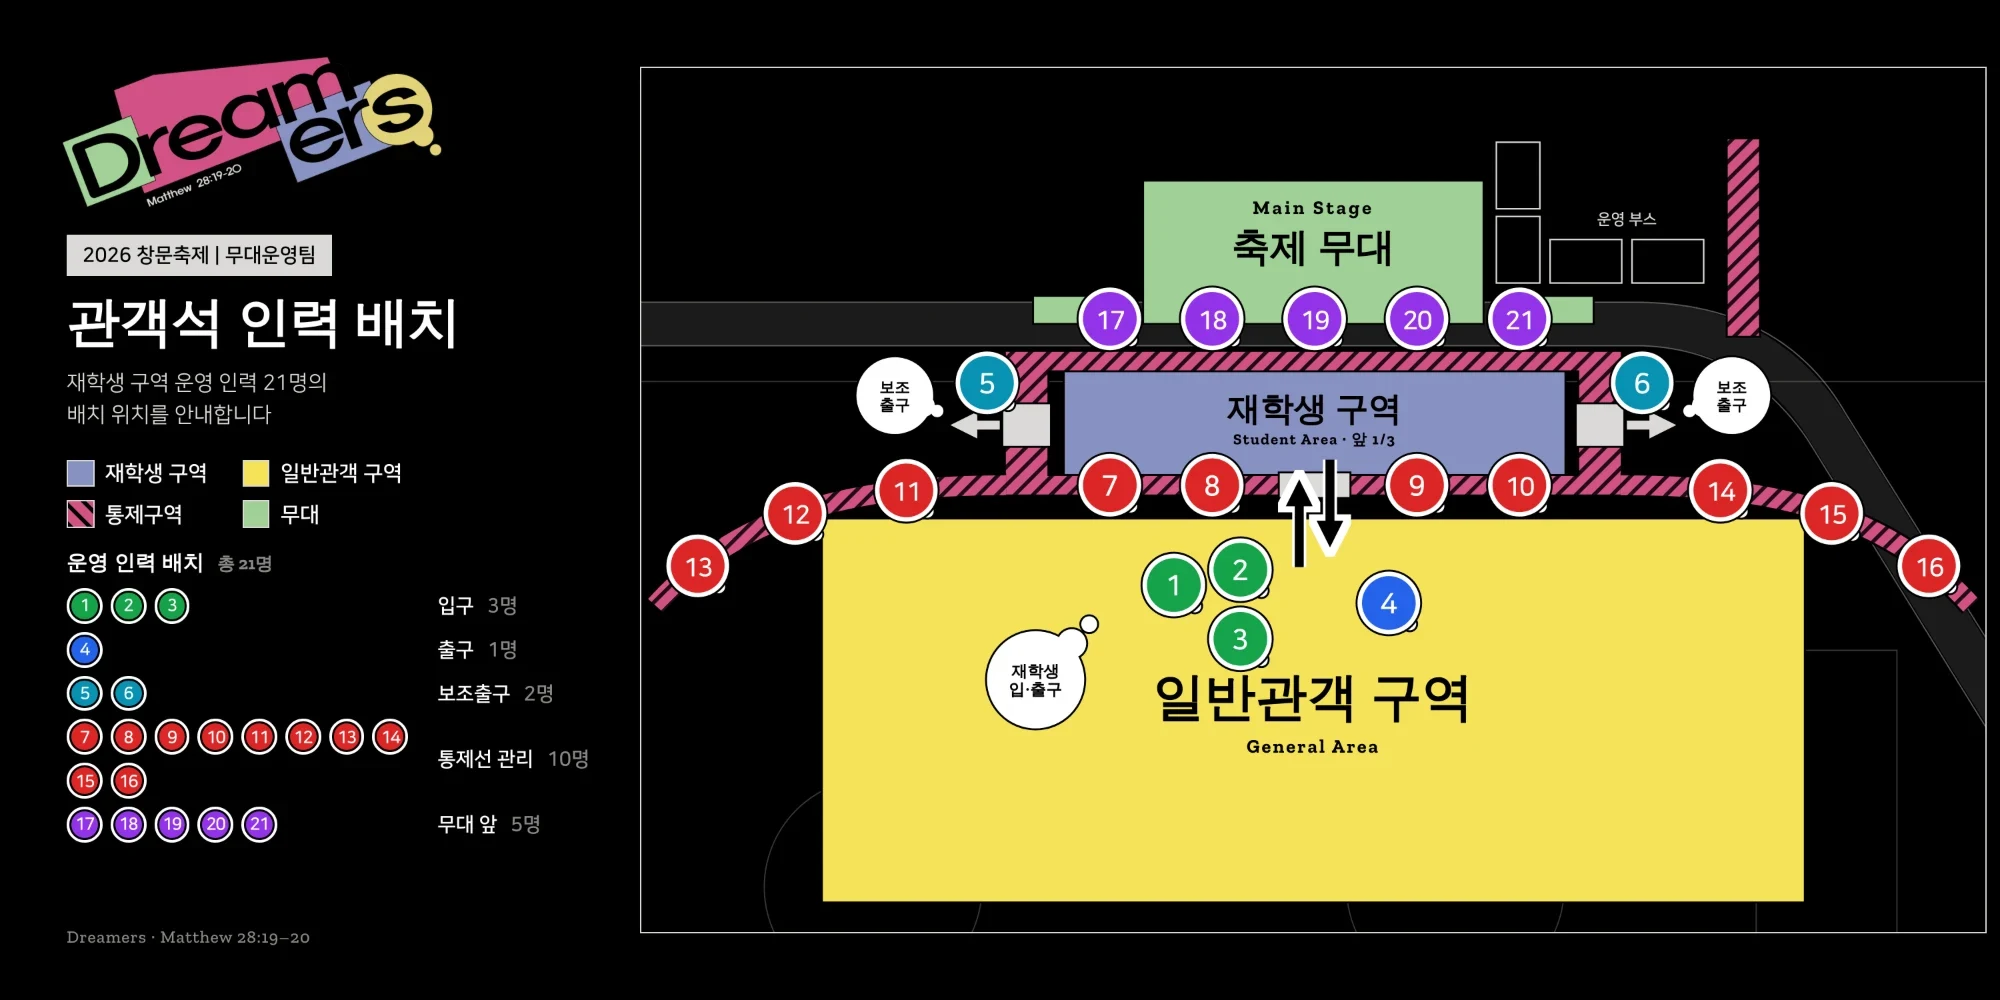
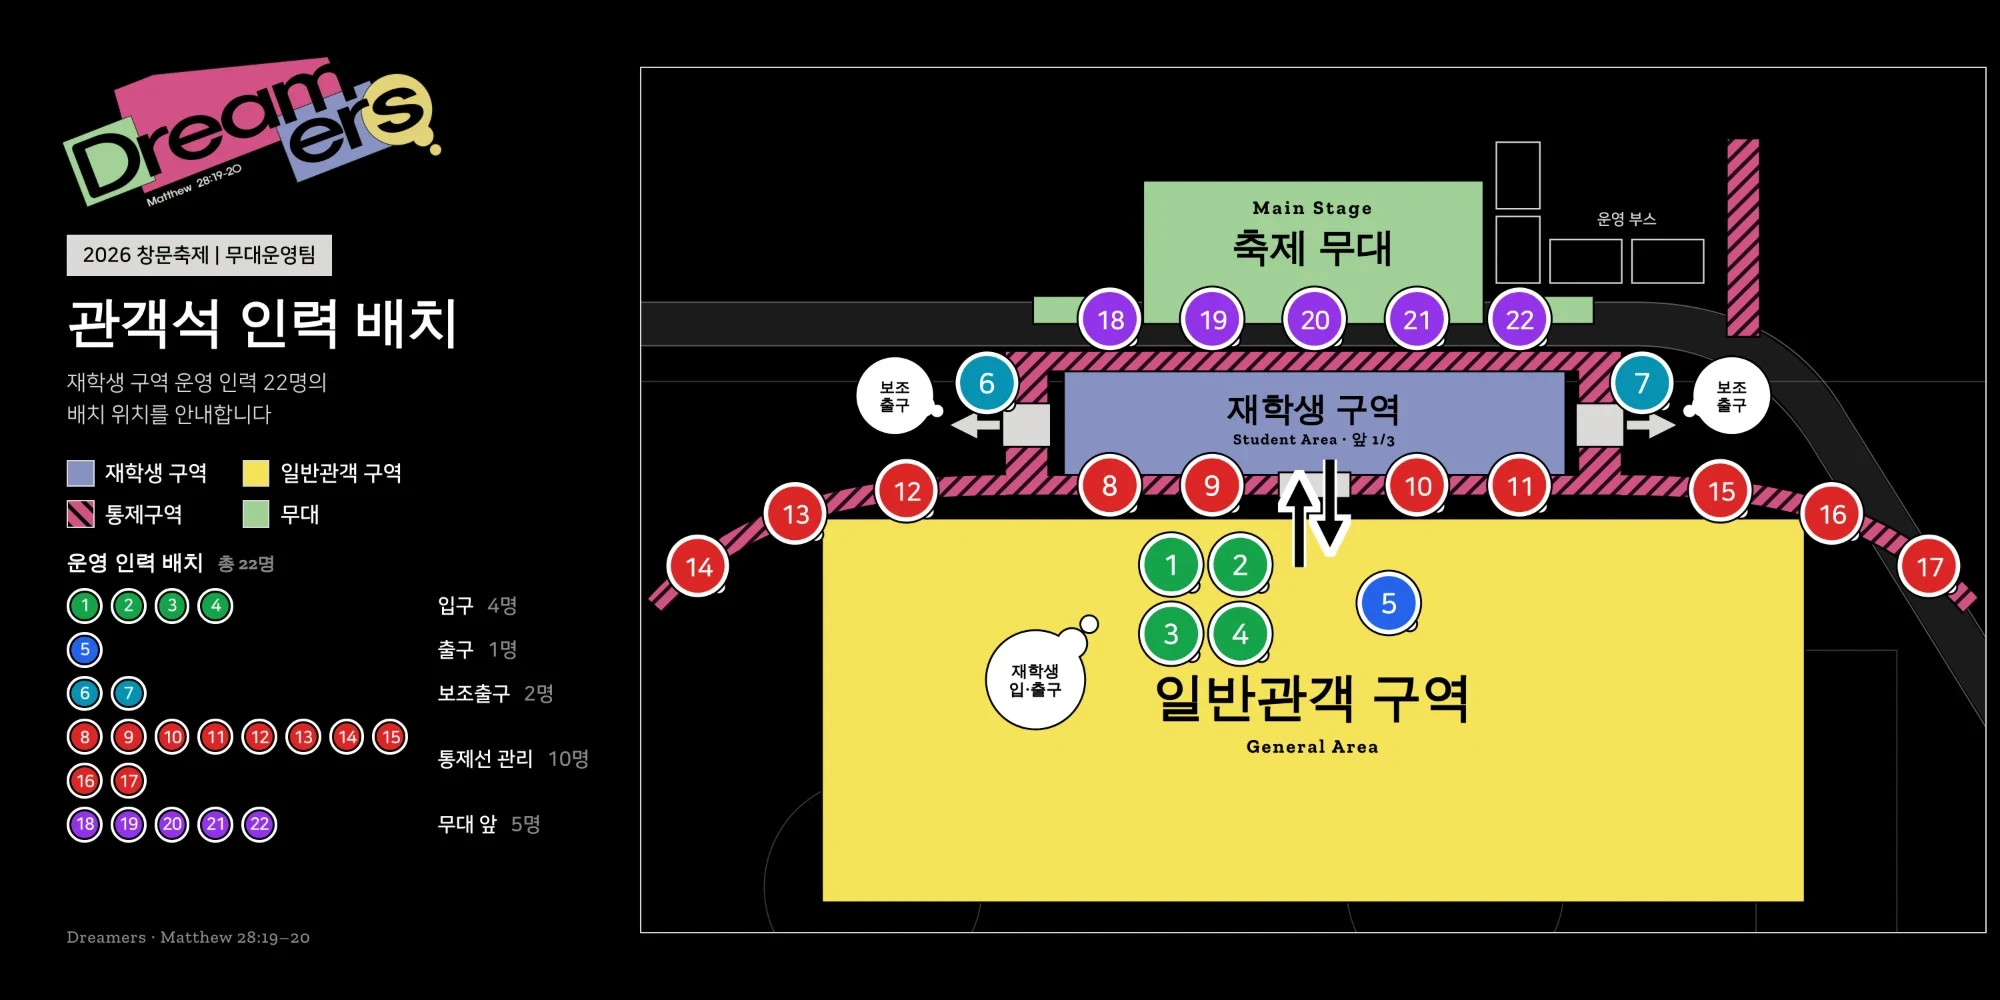
Switch to 22-person placement map and add 정유성 at spot 14
Claude-Session: https://claude.ai/code/session_01VLAU878uW3johEJhrDqsdQ

diff --git a/manual/index.html b/manual/index.html
@@ -134,10 +134,11 @@
   const sortEntries = arr => arr.slice().sort((a,b) => dayNum(a.day)-dayNum(b.day) || rotNum(a.rotation)-rotNum(b.rotation));
 
   // 관객석 인력 배치도 위의 1~21번 위치 (지도 이미지 기준 %)
-  const SPOTS = {1:[39.64,59.79],2:[44.54,58.06],3:[44.54,65.9],4:[55.61,61.87],5:[25.76,36.52],6:[74.31,36.52],
-    7:[34.82,48.39],8:[42.46,48.39],9:[57.61,48.39],10:[65.33,48.39],11:[19.75,48.96],12:[11.51,51.61],13:[4.31,57.6],
-    14:[80.25,48.96],15:[88.49,51.61],16:[95.69,57.6],17:[34.89,29.26],18:[42.54,29.26],19:[50.11,29.26],20:[57.68,29.26],21:[65.26,29.26]};
-  const spotRole = n => n<=3 ? ['입구','#1f9d55'] : n===4 ? ['출구','#2563eb'] : n<=6 ? ['보조출구','#0e8fa8'] : n<=16 ? ['통제선 관리','#e02424'] : ['무대 앞','#8b2be2'];
+  // 관객석 인력 배치도(22명) 위의 1~22번 위치 (지도 이미지 기준 %)
+  const SPOTS = {1:[39.42,57.49],2:[44.54,57.49],3:[39.42,65.32],4:[44.54,65.32],5:[55.61,61.87],6:[25.76,36.52],7:[74.31,36.52],
+    8:[34.82,48.39],9:[42.46,48.39],10:[57.76,48.39],11:[65.33,48.39],12:[19.75,48.96],13:[11.51,51.61],14:[4.31,57.6],
+    15:[80.25,48.96],16:[88.49,51.61],17:[95.69,57.6],18:[34.89,29.26],19:[42.54,29.26],20:[50.11,29.26],21:[57.68,29.26],22:[65.26,29.26]};
+  const spotRole = n => n<=4 ? ['입구','#1f9d55'] : n===5 ? ['출구','#2563eb'] : n<=7 ? ['보조출구','#0e8fa8'] : n<=17 ? ['통제선 관리','#e02424'] : ['무대 앞','#8b2be2'];
   const posOf = (e, name) => { const n = parseInt((e.positions||{})[name], 10); return SPOTS[n] ? n : null; };
 
   function mapHtml(marks){ // marks: [{n, label}]
@@ -326,9 +327,9 @@
           <div class="f"><label>준비물 (쉼표로 구분)</label><input type="text" data-k="items" value="${esc(e.items)}"></div>
           <div class="f"><label>하는 일 / 순서 (한 줄에 하나, 번호는 자동)</label><textarea class="tall" data-k="steps">${esc(e.steps)}</textarea></div>
           <div class="f"><label>주의 (한 줄에 하나, 번호는 자동)</label><textarea data-k="cautions">${esc(e.cautions)}</textarea></div>
-          <div class="f"><label>담당자 · 패트롤 위치 번호 (배치도 1~21번, 비우면 지도 없음)</label><div class="checks">
+          <div class="f"><label>담당자 · 패트롤 위치 번호 (배치도 1~22번)</label><div class="checks">
             ${d.people.map(n => `<label><input type="checkbox" data-who="${esc(n)}" ${(e.assignees||[]).includes(n)?'checked':''}> ${esc(n)}
-              <input class="posin" type="number" min="1" max="21" placeholder="위치" data-pos="${esc(n)}" value="${esc((e.positions||{})[n]||'')}"></label>`).join('')}
+              <input class="posin" type="number" min="1" max="22" placeholder="위치" data-pos="${esc(n)}" value="${esc((e.positions||{})[n]||'')}"></label>`).join('')}
           </div></div>
           <div class="actions" style="justify-content:space-between;align-items:center">
             <span></span>
@@ -394,9 +395,54 @@
 
   // 기존 데이터 보정: 시간 칸이 생기기 전에 만든 업무(시간 없음)는 모두 20:00~22:45로 채움
   function migrate(d){
+    d.migrations = d.migrations || [];
     (d.entries||[]).forEach(e => {
       if(e.time === undefined || e.time === null) e.time = '20:00~22:45';
     });
+    // 제목 끝 번호가 담당자(1명)의 위치 번호와 같으면 함께 바꿔 줌 (예: "통제선 관리 7")
+    const retitle = (e, oldN, newN) => {
+      const m = String(e.title||'').match(/^(.*?)(\d+)\s*$/);
+      if(m && +m[2] === oldN) e.title = m[1] + newN;
+    };
+    // 배치도 21명 → 22명: 입구가 1명 늘어 기존 4번 이상은 한 칸씩 밀림 (같은 자리 유지)
+    if(!d.migrations.includes('map22')){
+      (d.entries||[]).forEach(e => {
+        const ps = e.positions || {};
+        const keys = Object.keys(ps);
+        keys.forEach(k => {
+          const n = parseInt(ps[k],10);
+          if(n >= 4){ ps[k] = n + 1; if(keys.length === 1) retitle(e, n, n + 1); }
+        });
+      });
+      d.migrations.push('map22');
+    }
+    // 정유성 추가: 김세훈의 업무를 그대로 복사, 위치 14번(통제선 관리)
+    if(!d.migrations.includes('add-yuseong')){
+      d.people = d.people || [];
+      if(!d.people.includes('정유성')) d.people.push('정유성');
+      d.slugs = Object.assign({sehoon:'김세훈', kyungjin:'오경진', geon:'고건'}, d.slugs || {}, {yuseong:'정유성'});
+      const copies = [];
+      (d.entries||[]).forEach(e => {
+        const as = e.assignees || [];
+        if(!as.includes('김세훈') || as.includes('정유성')) return;
+        if(as.length === 1){
+          const c = clone(e);
+          c.id = e.id + '-yuseong';
+          c.assignees = ['정유성'];
+          const myN = parseInt((e.positions||{})['김세훈'],10);
+          c.positions = {'정유성': 14};
+          if(myN) retitle(c, myN, 14);
+          copies.push(c);
+        } else {
+          // 여러 명이 함께 쓰는 업무는 담당자로만 추가
+          as.push('정유성');
+          e.positions = e.positions || {};
+          e.positions['정유성'] = 14;
+        }
+      });
+      d.entries = (d.entries||[]).concat(copies);
+      d.migrations.push('add-yuseong');
+    }
     return d;
   }
 

diff --git a/manual/data.js b/manual/data.js
@@ -1,8 +1,9 @@
 // 매뉴얼 데이터 — 편집 모드(?edit)에서 수정 후 "data.js 내보내기"로 받은 파일로 교체하세요.
 window.MANUAL_DATA = {
   "title": "2026 가을창문축제 · 무대운영팀 매뉴얼",
-  "people": ["김세훈", "오경진", "고건"],
-  "slugs": {"sehoon": "김세훈", "kyungjin": "오경진", "geon": "고건"},
+  "people": ["김세훈", "오경진", "고건", "정유성"],
+  "slugs": {"sehoon": "김세훈", "kyungjin": "오경진", "geon": "고건", "yuseong": "정유성"},
+  "migrations": ["map22", "add-yuseong"],
   "entries": [
     {
       "id": "r2d2-line",
@@ -14,7 +15,8 @@ window.MANUAL_DATA = {
       "items": "경광봉, 스태프 조끼, 무전기, 핫팩",
       "steps": "19:50까지 해당 통제선 구역으로 도착\n통제선 쪽으로 오는 관객을 입구로 안내\n일반관객 재학생구역 밀착 방지 및 안내\n찬단봉 미설치 구간 통제\n안내 멘트예시: \"밀거나 뛰는 행동을 금지합니다. 안전한 관람을 위해 스태프의 안내를 따라주세요!\"",
       "cautions": "밀거나 뛰지 않도록 안내\n음식물을 반입하지 않도록 안내\n출입구로 입퇴장 할 수 있도록 안내",
-      "assignees": ["김세훈", "오경진", "고건"]
+      "assignees": ["김세훈", "오경진", "고건", "정유성"],
+      "positions": {"정유성": 14}
     }
   ]
 };
